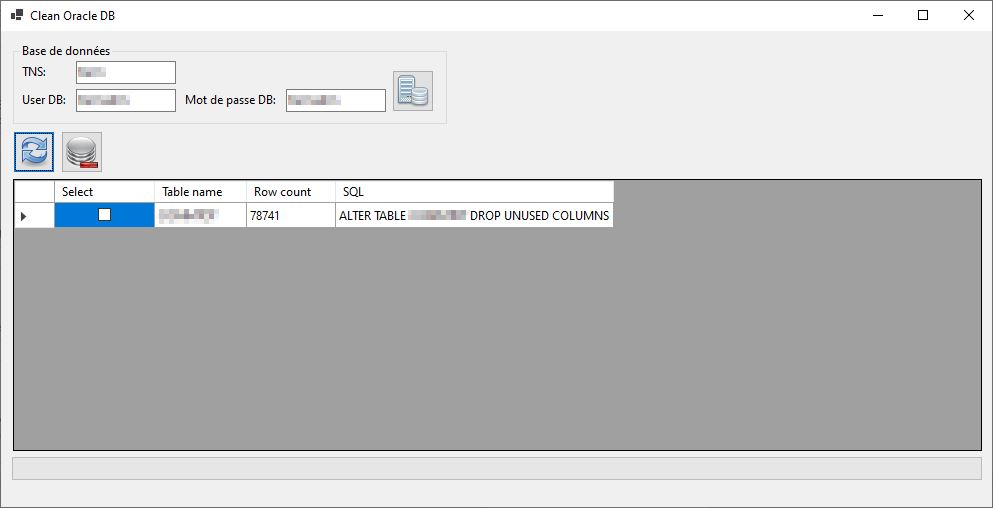
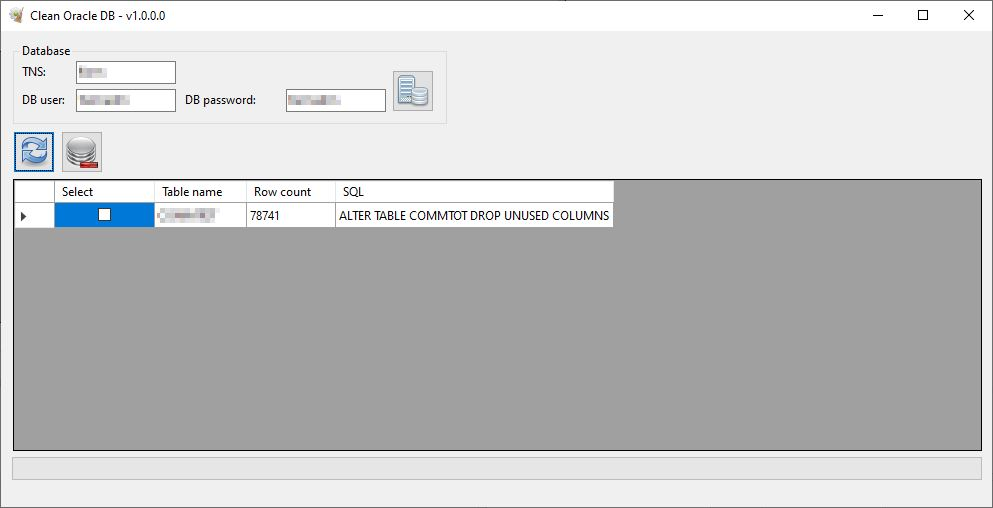
Translate to English

diff --git a/CleanOracleDB/MainForm.Designer.cs b/CleanOracleDB/MainForm.Designer.cs
@@ -76,7 +76,7 @@
             btnCleanDB.Name = "btnCleanDB";
             btnCleanDB.Size = new Size(42, 42);
             btnCleanDB.TabIndex = 2;
-            toolTip1.SetToolTip(btnCleanDB, "Supprimer les colonnes sélectionnées");
+            toolTip1.SetToolTip(btnCleanDB, "Delete selected columns");
             btnCleanDB.UseVisualStyleBackColor = true;
             btnCleanDB.Click += btnCleanDB_Click;
             // 
@@ -87,7 +87,7 @@
             btnTestConnection.Name = "btnTestConnection";
             btnTestConnection.Size = new Size(42, 42);
             btnTestConnection.TabIndex = 6;
-            toolTip1.SetToolTip(btnTestConnection, "Tester la connexion");
+            toolTip1.SetToolTip(btnTestConnection, "Test connection");
             btnTestConnection.UseVisualStyleBackColor = true;
             btnTestConnection.Click += btnTestConnection_Click;
             // 
@@ -105,7 +105,7 @@
             grpDatabase.Size = new Size(434, 82);
             grpDatabase.TabIndex = 0;
             grpDatabase.TabStop = false;
-            grpDatabase.Text = "Base de données";
+            grpDatabase.Text = "Database";
             // 
             // txtDBPassword
             // 
@@ -120,9 +120,9 @@
             lblDBPassword.AutoSize = true;
             lblDBPassword.Location = new Point(169, 49);
             lblDBPassword.Name = "lblDBPassword";
-            lblDBPassword.Size = new Size(98, 15);
+            lblDBPassword.Size = new Size(78, 15);
             lblDBPassword.TabIndex = 4;
-            lblDBPassword.Text = "Mot de passe DB:";
+            lblDBPassword.Text = "DB password:";
             // 
             // txtDBUser
             // 
@@ -137,9 +137,9 @@
             lblDBUser.AutoSize = true;
             lblDBUser.Location = new Point(6, 49);
             lblDBUser.Name = "lblDBUser";
-            lblDBUser.Size = new Size(51, 15);
+            lblDBUser.Size = new Size(50, 15);
             lblDBUser.TabIndex = 2;
-            lblDBUser.Text = "User DB:";
+            lblDBUser.Text = "DB user:";
             // 
             // txtTNS
             // 

diff --git a/CleanOracleDB/Properties/Settings.Designer.cs b/CleanOracleDB/Properties/Settings.Designer.cs
@@ -1,10 +1,10 @@
 //------------------------------------------------------------------------------
 // <auto-generated>
-//     Ce code a été généré par un outil.
-//     Version du runtime :4.0.30319.42000
+//     This code was generated by a tool.
+//     Runtime Version:4.0.30319.42000
 //
-//     Les modifications apportées à ce fichier peuvent provoquer un comportement incorrect et seront perdues si
-//     le code est régénéré.
+//     Changes to this file may cause incorrect behavior and will be lost if
+//     the code is regenerated.
 // </auto-generated>
 //------------------------------------------------------------------------------
 
@@ -12,7 +12,7 @@ namespace CleanOracleDB.Properties {
     
     
     [global::System.Runtime.CompilerServices.CompilerGeneratedAttribute()]
-    [global::System.CodeDom.Compiler.GeneratedCodeAttribute("Microsoft.VisualStudio.Editors.SettingsDesigner.SettingsSingleFileGenerator", "17.6.0.0")]
+    [global::System.CodeDom.Compiler.GeneratedCodeAttribute("Microsoft.VisualStudio.Editors.SettingsDesigner.SettingsSingleFileGenerator", "17.7.0.0")]
     internal sealed partial class Settings : global::System.Configuration.ApplicationSettingsBase {
         
         private static Settings defaultInstance = ((Settings)(global::System.Configuration.ApplicationSettingsBase.Synchronized(new Settings())));
@@ -34,7 +34,7 @@ namespace CleanOracleDB.Properties {
         
         [global::System.Configuration.ApplicationScopedSettingAttribute()]
         [global::System.Diagnostics.DebuggerNonUserCodeAttribute()]
-        [global::System.Configuration.DefaultSettingValueAttribute("500000")]
+        [global::System.Configuration.DefaultSettingValueAttribute("1000")]
         public long MAXLINES_ALERT {
             get {
                 return ((long)(this["MAXLINES_ALERT"]));

diff --git a/CleanOracleDB/Classes/SQL.cs b/CleanOracleDB/Classes/SQL.cs
@@ -10,14 +10,9 @@
         {
             string sql = "SELECT table_name"
             + " FROM user_unused_col_tabs"
-            + " WHERE table_name not like 'BIN$%==$0'" //On ne prend pas les tables de la RECYLCE BIN
+            + " WHERE table_name not like 'BIN$%==$0'" //We don't take tables from RECYLCE BIN
             + " ORDER BY table_name";
 
-            /*
-              SELECT table_name, column_name, data_type, data_length, char_length, data_default, hidden_column 
-              FROM user_tab_cols 
-              WHERE hidden_column='YES';
-             */
             return sql;
         }
 
